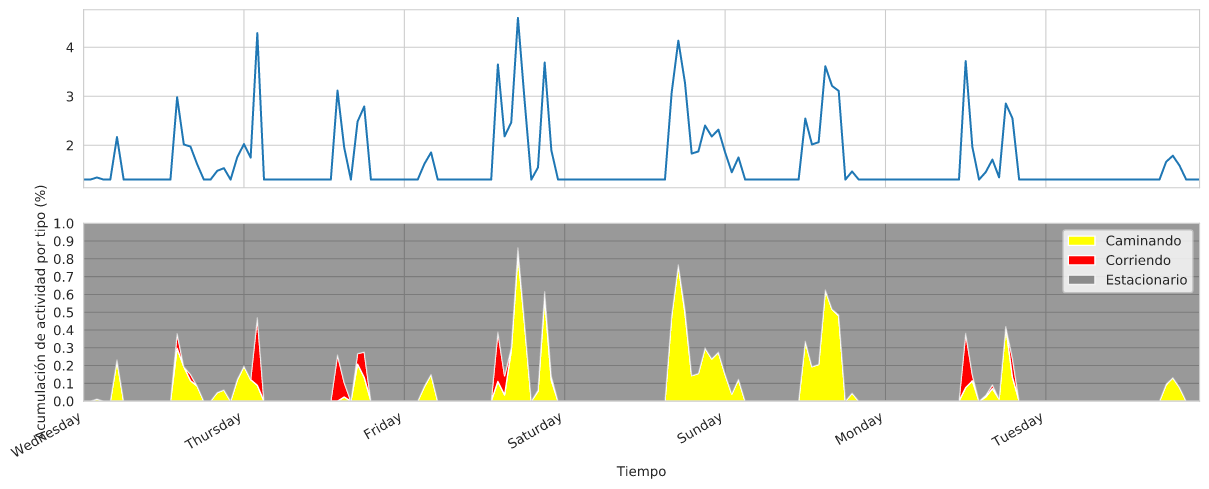
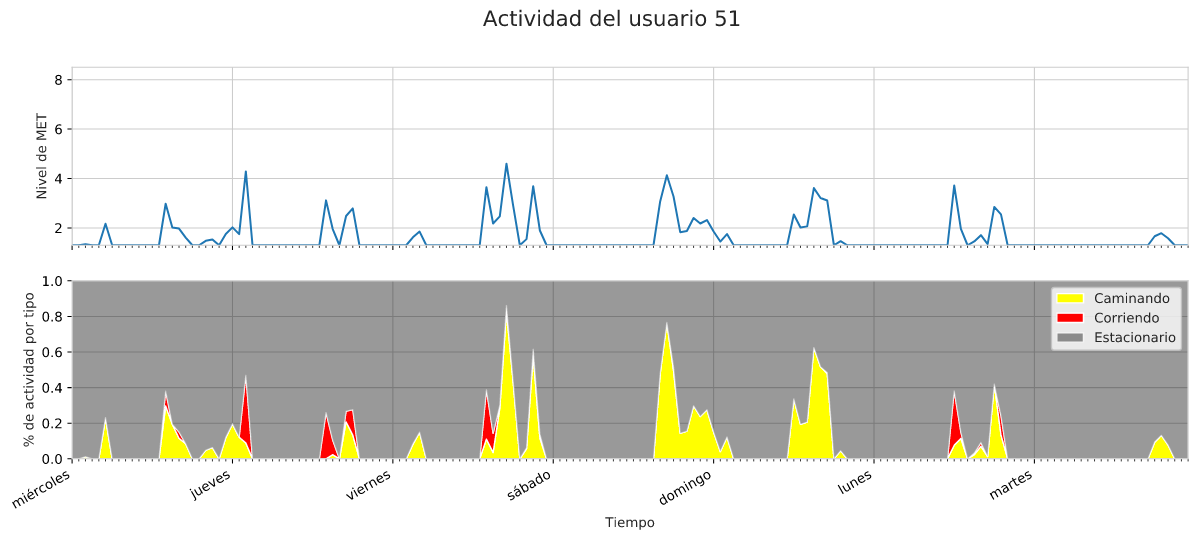
Enhanced single heatmap plots

diff --git a/utils/utils_graphic.py b/utils/utils_graphic.py
@@ -9,14 +9,21 @@ import pandas as pd
 import seaborn as sns
 from matplotlib import colors
 import seaborn as sns
+import locale
+locale.setlocale(locale.LC_TIME, 'es_ES.UTF-8')
 sns.set_style("whitegrid")
+# to see what rcParams has changed with importing sns
+# [(k,p[k], p_changed[k]) for k in p if p[k]!=p_changed[k]]
 
 def plot_user_activity(user, mindate='2013-03-27 04:00:00', maxdate='2013-06-01 3:00:00',  df=None):
     '''
     Plot the cumulative activity type of a specific user between mindate and maxdate
     The default mindate and mindate is too broad and does not work
     '''
-
+    plt.rcParams['xtick.color'] = 'black'
+    plt.rcParams['ytick.color'] = 'black'
+    plt.rcParams['xtick.bottom'] = True
+    plt.rcParams['ytick.left'] = True
     # to plot user 52's inconsistencies execute:
     # show_user_activity(52, '2013-05-22 00:00:00', '2013-05-28 23:59:59')
 
@@ -58,11 +65,11 @@ def plot_user_activity(user, mindate='2013-03-27 04:00:00', maxdate='2013-06-01 
     #ax.format_xdata = mdates.AutoDateFormatter()
     ax.set_ylim(0, 1)
     ax.set_xlim(xlabels[0], xlabels[-1])
+    ax.yaxis.set_major_locator(plt.MultipleLocator(0.2))
     ax.xaxis.set_major_locator(mdates.DayLocator())
-    ax.xaxis.set_major_formatter(mdates.DateFormatter('%A'))
     ax.xaxis.set_minor_locator(mdates.HourLocator())
-    ax.yaxis.set_major_locator(plt.MultipleLocator(0.1))
-    
+    ax.xaxis.set_major_formatter(mdates.DateFormatter('%A'))
+
     ax.autoscale_view()
     fig.autofmt_xdate()
     ax.grid(True)
@@ -77,7 +84,10 @@ def plot_user_activity(user, mindate='2013-03-27 04:00:00', maxdate='2013-06-01 
 
 
 def plot_user_activity_and_met(user, mindate='2013-03-27 04:00:00', maxdate='2013-06-01 3:00:00',  df=None):
-
+    plt.rcParams['xtick.color'] = 'black'
+    plt.rcParams['ytick.color'] = 'black'
+    plt.rcParams['xtick.bottom'] = True
+    plt.rcParams['ytick.left'] = True
     title = f'Actividad del usuario {user}'
     if df is None:
         df = get_dataset(delete_inconcitencies=False, from_disc=False)
@@ -86,7 +96,6 @@ def plot_user_activity_and_met(user, mindate='2013-03-27 04:00:00', maxdate='201
     
     data = data.loc[(data.index.get_level_values(1) >= mindate) &
                     (data.index.get_level_values(1) < maxdate)]
-    print(data.shape)
     true_date_range = data.index.get_level_values(1)
     date_range = pd.date_range(mindate, maxdate, freq='h', closed='left')
     none_dates = date_range.difference(true_date_range)
@@ -102,36 +111,46 @@ def plot_user_activity_and_met(user, mindate='2013-03-27 04:00:00', maxdate='201
     fig, (ax2, ax) = plt.subplots(2, 1, figsize=(15,6), sharex='all')
     fig.suptitle(title, fontsize=16)
 
+
+    ax.xaxis.set_major_locator(mdates.DayLocator())
+    ax.xaxis.set_major_formatter(mdates.DateFormatter('%A'))
+    ax.xaxis.set_minor_locator(mdates.HourLocator())
+    ax.yaxis.set_major_locator(plt.MultipleLocator(0.2))
+
+
     for date in none_dates:
         ax.axvline(mdates.date2num(date))
         ax2.axvline(mdates.date2num(date))
 
+    ax2.axhline(1.5, xlabels[0], xlabels[-1], color='r')
 
-  
-    ax.fill_between(xlabels, w, 0, facecolor='yellow', alpha=1, label='Caminando')
-    ax.fill_between(xlabels, w, r, facecolor='red', alpha=1, label='Corriendo')
-    ax.fill_between(xlabels, r, 1, facecolor='black', alpha=.4, label='Estacionario')
+
     ax.set_ylim(0, 1)
+    ax2.set_ylim(1.3,8.5)
     ax.set_xlim(xlabels[0], xlabels[-1])
-    ax.xaxis.set_major_locator(mdates.DayLocator())
-    ax.xaxis.set_major_formatter(mdates.DateFormatter('%A'))
-    ax.xaxis.set_minor_locator(mdates.HourLocator())
-    ax.yaxis.set_major_locator(plt.MultipleLocator(0.1))
-    ax.autoscale_view()
-    fig.autofmt_xdate()
-    ax.grid(True)
-    ax.set_ylabel('Acumulación de actividad por tipo (%)')
+
+
+    ax.set_ylabel(f'% de actividad por tipo')
     ax.set_xlabel('Tiempo')
-    ax.legend(loc='upper right')
+    ax2.set_ylabel('Nivel de MET')
 
     data = addSedentaryLevel(get_user_data(df, user)).slevel
 
     data = data.loc[(data.index.get_level_values(1) >= mindate) &
                     (data.index.get_level_values(1) < maxdate)]
+    
+    for x in [ax, ax2]:
+        x.autoscale_view()
+        x.grid(True)
+
+    fig.autofmt_xdate()
+
+    ax.fill_between(xlabels, w, 0, facecolor='yellow', alpha=1, label='Caminando')
+    ax.fill_between(xlabels, w, r, facecolor='red', alpha=1, label='Corriendo')
+    ax.fill_between(xlabels, r, 1, facecolor='black', alpha=.4, label='Estacionario')
+    ax.legend(loc='upper right')
     ax2.plot(xlabels, data.values)
-    ax.set_ylabel('Acumulación de actividad por tipo (%)')
-    ax.set_xlabel('Tiempo')
-    fig
+
     plt.show()
 
 
@@ -199,17 +218,6 @@ def plot_met_distribution(df=None, user=-1, log_transform=False):
     plt.ylabel('Cant. ocurrencias')
 
 
-def get_hour_labels():
-    hours = []
-    for h in range(0, 24):
-        if h < 10:
-            str = '0{0}:00'.format(h)
-        else:
-            str = '{0}:00'.format(h)
-        hours.append(str)
-    return hours
-
-
 def plot_heatmap(metric, user=-1):
     '''
     Plot a heatmap with entries for each day of week and hour of day combination.
@@ -219,32 +227,35 @@ def plot_heatmap(metric, user=-1):
     The metric can be 'mean' or 'std'
 
     '''
-    df = get_lagged_dataset()
+    df = get_dataset()
     plt.close()
-    if user >= 0:
-        dfuser = get_user_data(df, user)
-    else:
-        dfuser = df
-    dfuser['hourofday'] = dfuser.index.get_level_values(1).hour
-    dfuser['dayofweek'] = dfuser.index.get_level_values(1).dayofweek
-    days = ['monday', 'tuesday', 'wednesday', 'thursday', 'friday', 'saturday', 'sunday']
-    userdata = dfuser.groupby(['dayofweek', 'hourofday'])['slevel']
-    if metric == 'mean':
-        userdata = userdata.mean()
-        userdata = userdata.reset_index()
-        userdata = userdata.pivot(index='dayofweek', values='slevel', columns='hourofday')
-        sns.heatmap(userdata, vmin=1.3, cmap='RdBu_r')
-    elif metric == 'std':
-        userdata = userdata.std()
-        userdata = userdata.reset_index()
-        userdata = userdata.pivot(index='dayofweek', values='slevel', columns='hourofday')
-        sns.heatmap(userdata, vmin=0, cmap='autumn_r')
-    plt.title('{0} activity of user {1}'.format(metric, user))
-    plt.ylabel('Day of week')
-    plt.xlabel('Hour of day')
-    plt.yticks(np.arange(0.5, 7.5), days, rotation='horizontal')
-    plt.xticks(np.arange(0.5, 24.5), get_hour_labels(), rotation='vertical')
 
+    fig, ax = plt.subplots(figsize=(6,4))
+
+    if user >= 0:
+        df = get_user_data(df, user)
+
+    df = df.loc[:,'slevel'].to_frame()
+    df['hourofday'] = df.index.get_level_values(1).strftime('%H:00')
+    df['dayofweek'] = df.index.get_level_values(1).strftime('%w')
+    df['dayofweek_name'] = df.index.get_level_values(1).strftime('%A').str.title()
+    data = df.groupby(['dayofweek', 'dayofweek_name', 'hourofday'])['slevel'].agg(['mean', 'std']).reset_index().sort_values('dayofweek')
+    re_order = pd.DataFrame(data.dayofweek.drop_duplicates().values, data.dayofweek_name.drop_duplicates().values)
+    data = data.pivot(index='dayofweek_name', columns='hourofday')[metric]
+    data = data.reindex(re_order.index)
+    if metric == 'mean':
+        sns.heatmap(data, vmin=1.3,linewidths=.03, cmap='RdBu_r')
+        m = 'Promedio'
+    elif metric == 'std':
+        sns.heatmap(data, vmin=0,linewidths=.03, cmap='autumn_r')
+        m = 'Desviación estándar'
+    if user>0:
+        plt.title(f'{m} de la actividad del usuario {user}')
+    else:
+        plt.title(f'{m} de la actividad de todos los usuarios')
+
+    plt.ylabel('Día de la semana ')
+    plt.xlabel('Hora del día')
     plt.show()
 
 
@@ -254,7 +265,7 @@ def plot_heatmaps_mean(users=[50, 31, 4]):
 
     '''
 
-    df = get_lagged_dataset()
+    df = get_dataset()
     metric = 'mean'
 
     df['hourofday'] = df.index.get_level_values(1).hour

diff --git a/code.py b/code.py
@@ -1,87 +1,17 @@
 
 #%%
 import matplotlib.dates as mdates
-from preprocessing.datasets import get_dataset, get_user_data
-from utils.utils_graphic import plot_met_statistics,plot_user_activity, plot_user_activity_and_met
-from preprocessing.various import get_activity_levels, addSedentaryLevel
-import numpy as np
 import matplotlib.pyplot as plt
-import seaborn as sns
+from utils.utils_graphic import plot_heatmap
+import numpy as np
 import pandas as pd
-sns.set_style("whitegrid")
+from matplotlib import colors
+import seaborn as sns
 import locale
-locale.setlocale(locale.LC_TIME, 'es_ES.UTF-8')
-#%%
-df = get_dataset(delete_inconcitencies=False, from_disc=False)
-
-#%%
-def plot_user_activity_and_met(user, mindate='2013-03-27 04:00:00', maxdate='2013-06-01 3:00:00',  df=None):
-
-    title = f'Actividad del usuario {user}'
-    if df is None:
-        df = get_dataset(delete_inconcitencies=False, from_disc=False)
-
-    data = get_activity_levels(get_user_data(df, user))
-    
-    data = data.loc[(data.index.get_level_values(1) >= mindate) &
-                    (data.index.get_level_values(1) < maxdate)]
-    true_date_range = data.index.get_level_values(1)
-    date_range = pd.date_range(mindate, maxdate, freq='h', closed='left')
-    none_dates = date_range.difference(true_date_range)
-    print('Faltan {0} buckets!'.format(len(none_dates)))
-    
-    xlabels = mdates.date2num(true_date_range)
+sns.set_style("whitegrid")
 
 
-    r = data['walkingLevel'].values + data['runningLevel'].values
-    w = data['walkingLevel'].values
 
-    plt.close()
-    fig, (ax2, ax) = plt.subplots(2, 1, figsize=(15,6), sharex='all')
-    fig.suptitle(title, fontsize=16)
-
-
-    ax.xaxis.set_major_locator(mdates.DayLocator())
-    ax.xaxis.set_major_formatter(mdates.DateFormatter('%A'))
-    ax.xaxis.set_minor_locator(mdates.HourLocator(interval=4))
-    ax.yaxis.set_major_locator(plt.MultipleLocator(0.2))
-
-
-    for date in none_dates:
-        ax.axvline(mdates.date2num(date))
-        ax2.axvline(mdates.date2num(date))
-
-
-    ax.set_ylim(0, 1)
-    ax2.set_ylim(1.3,8)
-    ax.set_xlim(xlabels[0], xlabels[-1])
-
-
-    ax.set_ylabel(f'% de actividad por tipo')
-    ax.set_xlabel('Tiempo')
-    ax2.set_ylabel('Nivel de MET')
-
-    data = addSedentaryLevel(get_user_data(df, user)).slevel
-
-    data = data.loc[(data.index.get_level_values(1) >= mindate) &
-                    (data.index.get_level_values(1) < maxdate)]
-    
-    for x in [ax, ax2]:
-        x.autoscale_view()
-        x.grid(True)
-
-    fig.autofmt_xdate()
-
-    ax.fill_between(xlabels, w, 0, facecolor='yellow', alpha=1, label='Caminando')
-    ax.fill_between(xlabels, w, r, facecolor='red', alpha=1, label='Corriendo')
-    ax.fill_between(xlabels, r, 1, facecolor='black', alpha=.4, label='Estacionario')
-    ax.legend(loc='upper right')
-    ax2.plot(xlabels, data.values)
-
-    plt.show()
-    
 
 # %%
-plot_user_activity_and_met(51, '2013-05-22 00:00:00', '2013-05-28 23:59:59', df)
-
-# %%
+plot_heatmap('mean',50)
